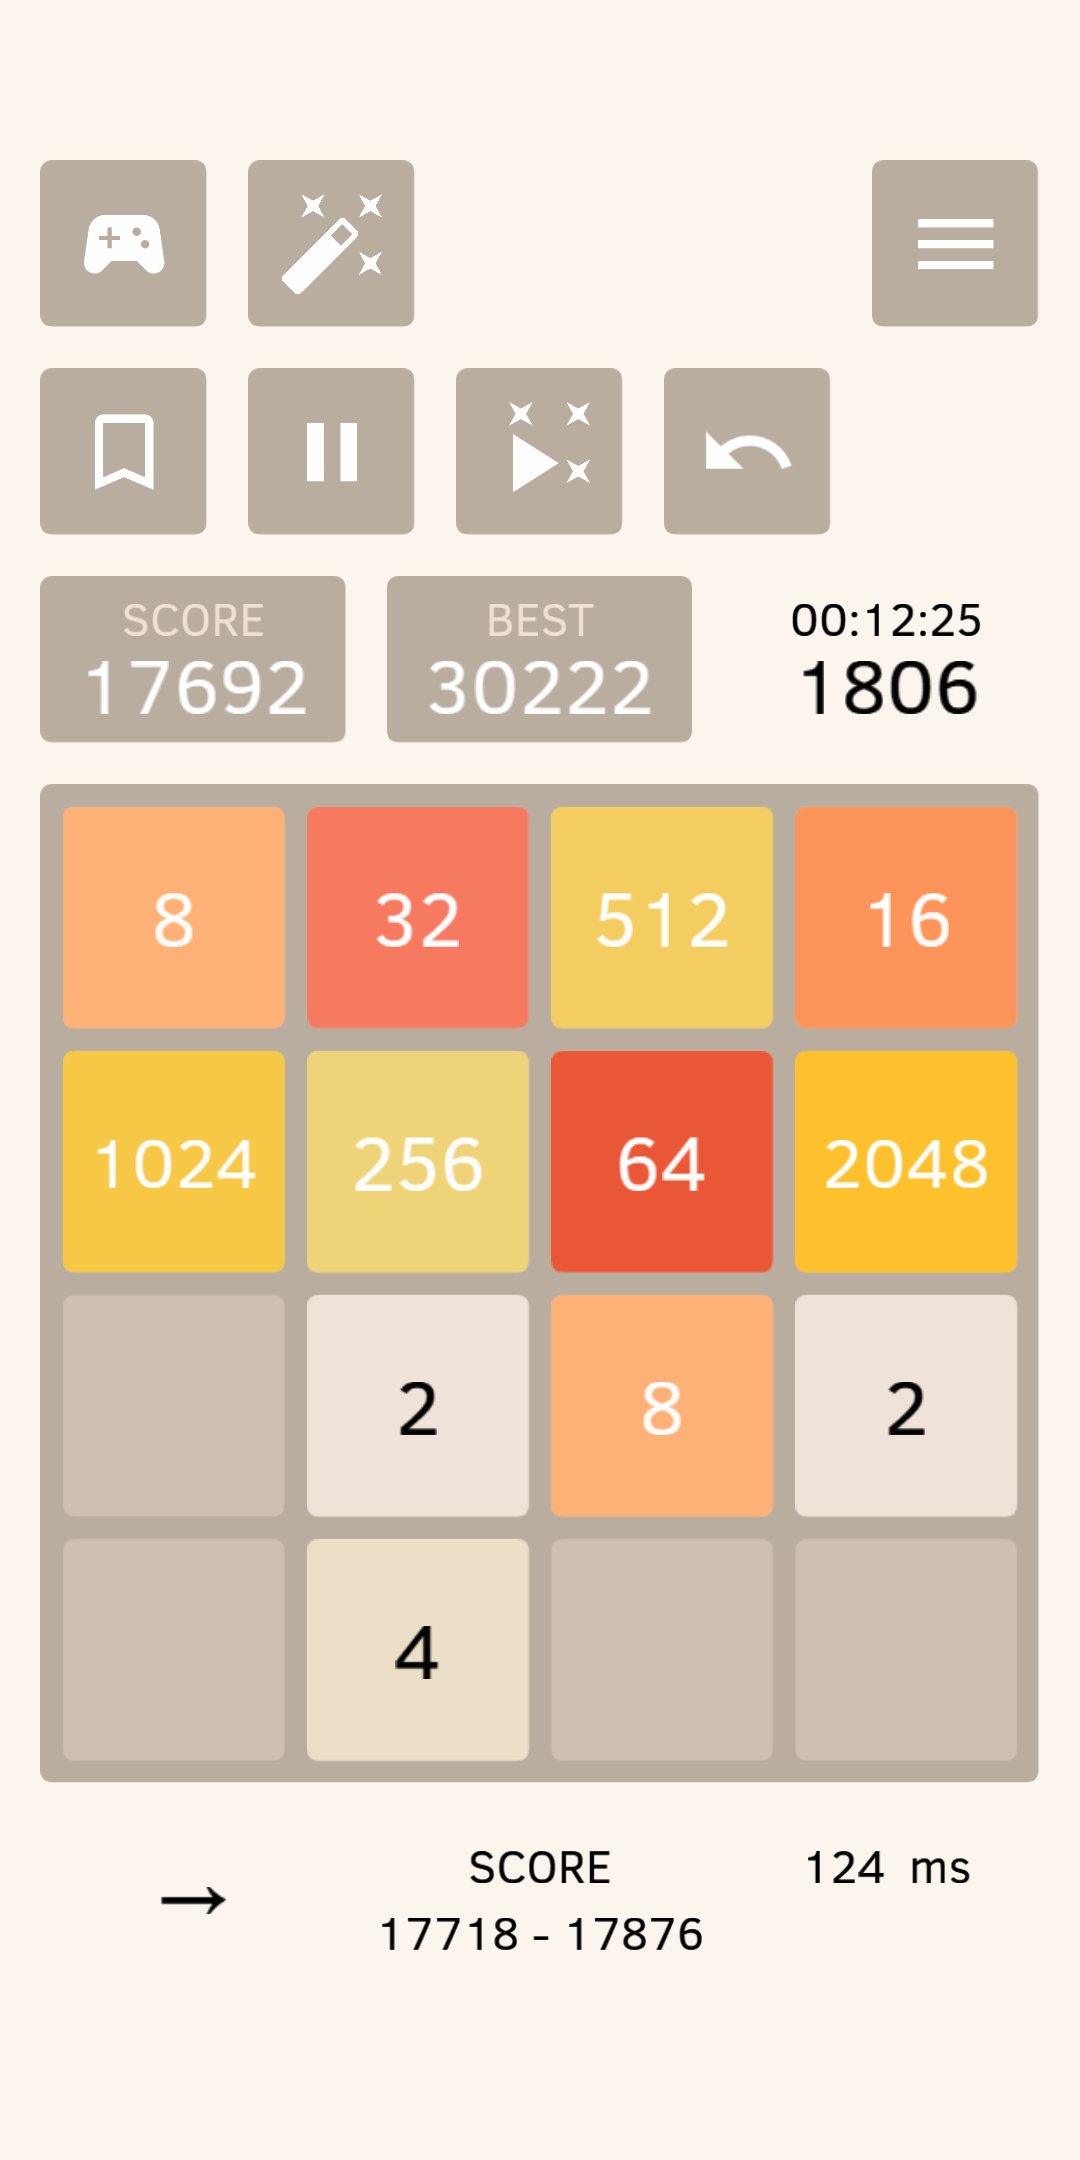
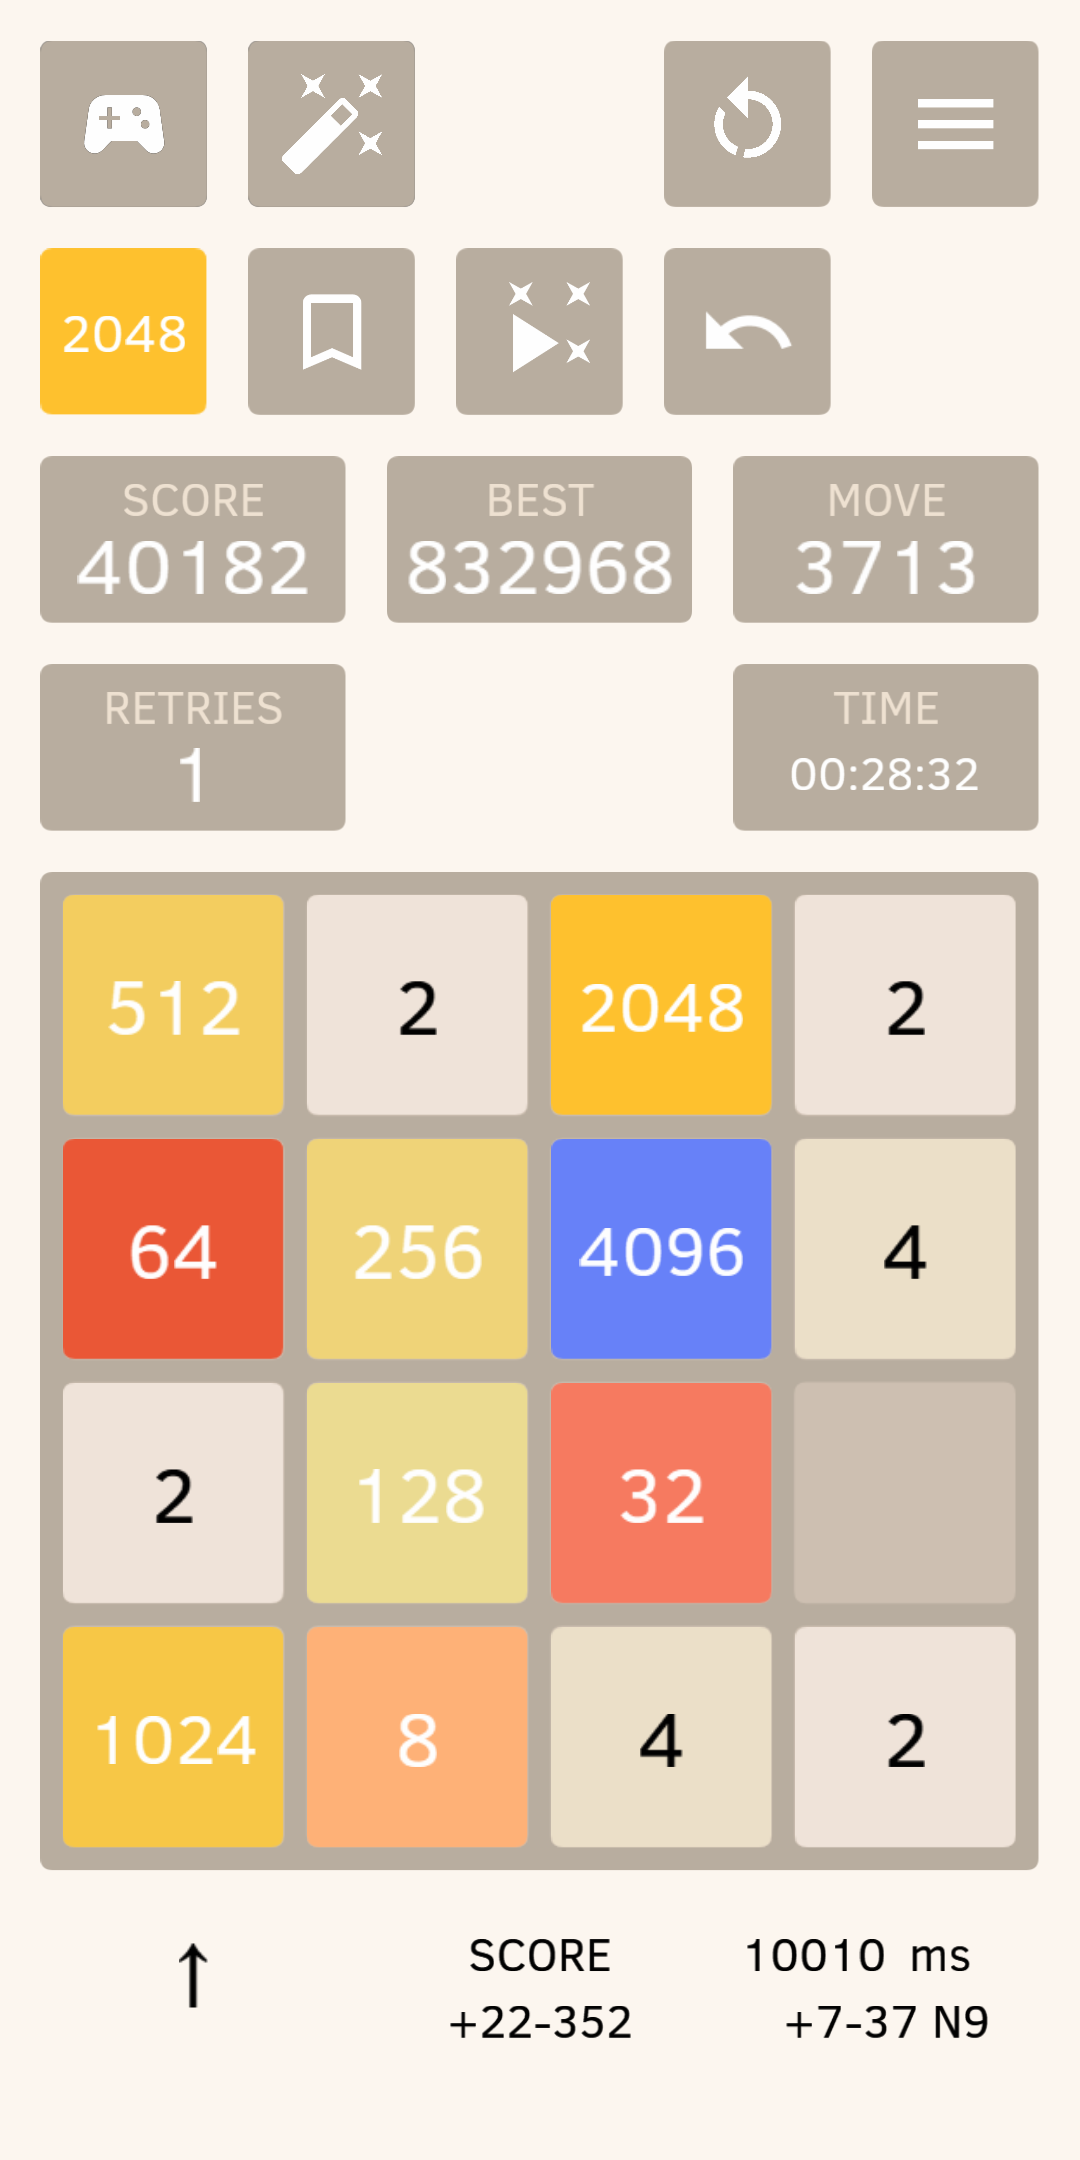
v.1.11.0 Retries counter and Landscape layout

diff --git a/README.md b/README.md
@@ -31,8 +31,13 @@ see [User experience](doc/User-Experience.md).
 ### Features of "2048 Open Fun Game" that are not present in the original game
 
 * Unlimited and animated Undo and Redo.
+* Retries counter. When you make a move after Undo (no matter if it is the same move as before or another move),
+  number of Retries increases. The counter shows total number of retries done during the game
+  and allows comparing different results more fairly.
 * Select theme for the app: Device default (for Android 9+), Dark or Light.
   Dark theme for Android 9+ is turned on by default when system-wide "Dark theme" is turned on in device settings.
+* Different portrait and landscape screen layouts. Portrait layout is more or less classic for the 2048 game, 
+  and landscape layout allows using screen space better and have larger board.
 * Turn on AI (Artificial Intelligence) mode and let the AI play for you.
   Increase or decrease AI player speed. Stop it and continue playing yourself.
   Choose one of several AI algorithms, see how they play and compare them.
@@ -42,8 +47,8 @@ see [User experience](doc/User-Experience.md).
 * "Watch" mode. Auto replay current game forward and backwards at any speed,
   stop at any position.
   Switch to "Play" mode from that place and continue playing, overriding history.
-* The Latest games with all their moves, bookmarks and scores are stored in a history and can be watched.
-  Or you can play them again.
+* Recent games with all their moves, bookmarks and scores are stored in a history and can be watched.
+  Or you can play them again from any position / bookmark.
 * Game menu allows you to delete current game from history, to restart a game ("Try again")
   or to open recent game from a list.
 * When you tap "Try again" button or open recent game, current game is automatically saved to the history,
@@ -54,7 +59,7 @@ see [User experience](doc/User-Experience.md).
 <p>
 <img title="Main screen of Game2048 app. Play mode. You see Bookmark and Pause buttons" src="game2048-android/src/main/play/listings/en-US/graphics/phone-screenshots/1.png" height="400" />
 <img src="doc/images/5x5.png" width="5" />
-<img title="Dark Theme. Play mode. You see Bookmark and Pause buttons. Game2048 app" src="game2048-android/src/main/play/listings/en-US/graphics/phone-screenshots/2.png" height="400" />
+<img title="Dark Theme. Play mode in Landscape orientation. You see Bookmark button. Game2048 app" src="game2048-android/src/main/play/listings/en-US/graphics/phone-screenshots/2.png" width="400" />
 <img src="doc/images/5x5.png" width="5" />
 <img title="Dark Theme. Watch mode. Now watching the game movements backwards. To the left: 'Game pad' button to switch to Play mode. Game2048 app" src="game2048-android/src/main/play/listings/en-US/graphics/phone-screenshots/3.png" height="400" />
 <img src="doc/images/5x5.png" width="5" />
@@ -76,17 +81,18 @@ If you found the project useful, please
 
 ## About the project
 
-The project started from [RezMike/2048 KorGe tutorial project](https://github.com/RezMike/2048#readme), 
-but it's not a clone of that repository: it's a rewrite aiming at becoming a (board) game template
+The project started from the tutorial [RezMike/2048 KorGe tutorial project](https://github.com/RezMike/2048#readme), 
+and then it was rewritten aiming at becoming an open (board) game template
 that is easy to modify, to extend and to play with using [Kotlin](https://kotlinlang.org/) programming language
 and [KorGe game engine](https://korge.org/).
 
-Following this goal, the source code has been structured and cleaned. We're trying to use 
-board games terminology (e.g. [Glossary of chess](https://en.wikipedia.org/wiki/Glossary_of_chess))
+Following this goal:
+* We're using board games terminology as much as possible (e.g. [Glossary of chess](https://en.wikipedia.org/wiki/Glossary_of_chess))
 in order to ease understanding of implementation logic.
-
-Game exchange text format created (JSON based) to allow users share  
-and load shared games with all moves and bookmarks.
+* Adding lots of new [features](#features).
+* Add automated tests.
+* Structure and clean code.
+* Created Game exchange text format (JSON based) to allow users share and load shared games with all moves and bookmarks.
 
 ## Contribution
 
@@ -98,7 +104,13 @@ and load shared games with all moves and bookmarks.
 
 ## Changelog
 
-No changes yet, please see [Features](#features).
+### 2021-12-21 v.1.11.0 (33) Retries counter and Landscape layout.
+* Retries counter added. When you make a move after Undo (no matter if it is the same move as before or another move),
+  number of Retries increases. The counter shows total number of retries done during the game
+  and allows comparing different results more fairly.
+* Landscape screen layout added. Portrait layout is more or less classic for the 2048 game,
+  and landscape layout allows using screen space better and have larger board.
+* Optimized to allow games with more than 50 thousand moves.
 
 # How to run the project
 
